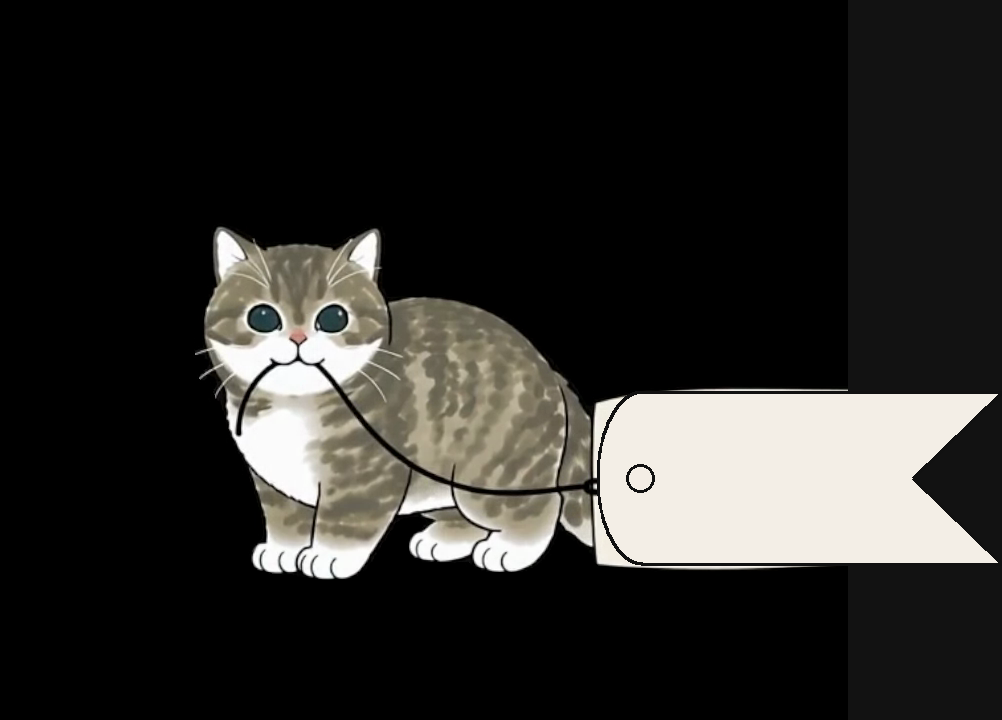
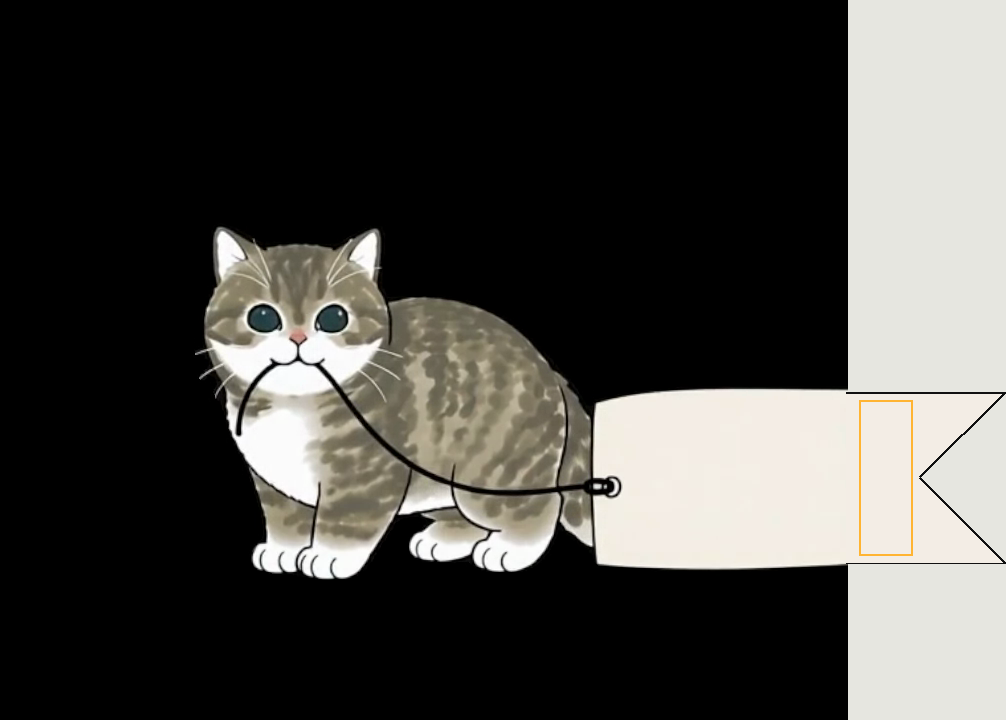
Walk the rating cat in from the right and pin stars on the full paper.
Replace the fade with a linear edge entrance timed to the clip, and overlay the complete swallowtail tag so the stars sit on the paper, not the cat.

diff --git a/frontend/app/assets/main.css b/frontend/app/assets/main.css
@@ -15290,17 +15290,19 @@ button.button {
   bottom: 4px;
   z-index: 6;
   /* кот ≈ 1.5× меньше прежних 360px; сцена шире ролика из‑за хвоста бумажки */
-  width: min(284px, 88vw);
+  width: min(286px, 88vw);
   display: flex;
   flex-direction: column;
   align-items: flex-end;
   gap: 6px;
   pointer-events: none;
-  animation: kb-rate-cat-in 0.45s ease-out;
+  /* выезд из-за правого края (клип страницы), без fade — ~длина ролика */
+  transform: translateX(100%);
+  animation: kb-rate-cat-in 5s linear forwards;
 }
 
 .kb-rate-cat.is-out {
-  animation: kb-rate-cat-out 0.4s ease-in forwards;
+  animation: kb-rate-cat-out 1.1s linear forwards;
 }
 
 .kb-rate-cat__ask {
@@ -15319,25 +15321,7 @@ button.button {
   position: relative;
   width: 100%;
   /* ролик 848×720 + вылет бумажки со swallowtail справа */
-  aspect-ratio: 1002 / 720;
-}
-
-.kb-rate-cat__banner {
-  position: absolute;
-  left: 59.681%;
-  top: 54.444%;
-  width: 40.319%;
-  height: 23.889%;
-  object-fit: fill;
-  opacity: 0;
-  pointer-events: none;
-  user-select: none;
-  z-index: 0;
-  transition: opacity 0.2s ease;
-}
-
-.kb-rate-cat__banner.is-live {
-  opacity: 1;
+  aspect-ratio: 1006 / 720;
 }
 
 .kb-rate-cat__video {
@@ -15345,7 +15329,7 @@ button.button {
   left: 0;
   top: 0;
   display: block;
-  width: 84.631%;
+  width: 84.294%;
   height: 100%;
   object-fit: fill;
   /* чёрный фон ролика → прозрачность на светлом холсте */
@@ -15355,28 +15339,45 @@ button.button {
   z-index: 1;
 }
 
-.kb-rate-cat__paper {
+.kb-rate-cat__banner {
   position: absolute;
-  /* зона звёзд на теле бумажки (левее V-хвоста) */
-  left: 67.737%;
+  left: 59.344%;
   top: 54.444%;
-  width: 22.383%;
+  width: 40.656%;
   height: 23.889%;
   z-index: 2;
+  opacity: 0;
+  pointer-events: none;
+  transition: opacity 0.2s ease;
+}
+
+.kb-rate-cat__banner.is-live {
+  opacity: 1;
+  pointer-events: auto;
+}
+
+.kb-rate-cat__banner-img {
+  display: block;
+  width: 100%;
+  height: 100%;
+  object-fit: fill;
+  pointer-events: none;
+  user-select: none;
+}
+
+.kb-rate-cat__paper {
+  position: absolute;
+  /* правее кота/люверса, левее V-хвоста — только открытое поле бумажки */
+  left: 40%;
+  right: 20%;
+  top: 16%;
+  bottom: 16%;
   display: flex;
   align-items: center;
   justify-content: space-between;
   gap: 0;
   padding: 0;
   box-sizing: border-box;
-  opacity: 0;
-  pointer-events: none;
-  transition: opacity 0.25s ease;
-}
-
-.kb-rate-cat__paper.is-live {
-  opacity: 1;
-  pointer-events: auto;
 }
 
 .kb-rate-cat__star {
@@ -15386,10 +15387,10 @@ button.button {
   border: 0;
   background: none;
   flex: 0 0 auto;
-  width: 18%;
+  width: 17%;
   height: auto;
   aspect-ratio: 1;
-  max-height: 78%;
+  max-height: 100%;
   cursor: pointer;
   line-height: 0;
 }
@@ -15401,7 +15402,7 @@ button.button {
 }
 
 .kb-rate-cat__star path {
-  fill: rgba(255, 184, 51, 0.22);
+  fill: rgba(255, 184, 51, 0.28);
   stroke: #111;
   stroke-width: 1.4;
   stroke-linejoin: round;
@@ -15418,8 +15419,8 @@ button.button {
 
 .kb-rate-cat__panel {
   position: absolute;
-  left: 59.681%;
-  width: 40.319%;
+  left: 59.344%;
+  width: 40.656%;
   top: 52%;
   z-index: 3;
   display: grid;
@@ -15479,19 +15480,19 @@ button.button {
 
 @keyframes kb-rate-cat-in {
   from {
-    opacity: 0;
-    transform: translate(28px, 36px);
+    transform: translateX(100%);
   }
   to {
-    opacity: 1;
-    transform: translate(0, 0);
+    transform: translateX(0);
   }
 }
 
 @keyframes kb-rate-cat-out {
+  from {
+    transform: translateX(0);
+  }
   to {
-    opacity: 0;
-    transform: translate(40px, 48px);
+    transform: translateX(110%);
   }
 }
 

diff --git a/frontend/app/pages/knowledge/index.vue b/frontend/app/pages/knowledge/index.vue
@@ -9,15 +9,6 @@
       <p v-if="rateReady && rateStep === 'stars'" class="kb-rate-cat__ask">Оцените удобство этой страницы</p>
 
       <div class="kb-rate-cat__stage">
-        <img
-          class="kb-rate-cat__banner"
-          :class="{ 'is-live': rateReady }"
-          src="/knowledge/rating-paper-full.png"
-          alt=""
-          width="424"
-          height="192"
-          draggable="false"
-        />
         <video
           ref="rateVideoRef"
           class="kb-rate-cat__video"
@@ -27,30 +18,41 @@
           preload="auto"
           @ended="onRateVideoEnded"
         />
-        <div
-          class="kb-rate-cat__paper"
-          :class="{ 'is-live': rateReady && rateStep === 'stars' }"
-          role="group"
-          aria-label="Оценка от 1 до 5"
-        >
-          <button
-            v-for="n in 5"
-            :key="n"
-            type="button"
-            class="kb-rate-cat__star"
-            :class="{ 'is-on': n <= (rateHover || rateStars) }"
-            :disabled="!rateReady || rateStep !== 'stars'"
-            :aria-label="`${n} из 5`"
-            @mouseenter="rateHover = n"
-            @mouseleave="rateHover = 0"
-            @click="pickStars(n)"
+        <!-- полная бумажка поверх ролика: swallowtail + звёзды на ней -->
+        <div class="kb-rate-cat__banner" :class="{ 'is-live': rateReady }" :aria-hidden="!rateReady">
+          <img
+            class="kb-rate-cat__banner-img"
+            src="/knowledge/rating-paper-full.png"
+            alt=""
+            width="409"
+            height="172"
+            draggable="false"
+          />
+          <div
+            v-show="rateStep === 'stars'"
+            class="kb-rate-cat__paper"
+            role="group"
+            aria-label="Оценка от 1 до 5"
           >
-            <svg viewBox="0 0 24 24" aria-hidden="true">
-              <path
-                d="M12 2.4l2.9 5.9 6.5.9-4.7 4.6 1.1 6.5L12 17.2 6.2 20.3l1.1-6.5L2.6 9.2l6.5-.9L12 2.4z"
-              />
-            </svg>
-          </button>
+            <button
+              v-for="n in 5"
+              :key="n"
+              type="button"
+              class="kb-rate-cat__star"
+              :class="{ 'is-on': n <= (rateHover || rateStars) }"
+              :disabled="!rateReady || rateStep !== 'stars'"
+              :aria-label="`${n} из 5`"
+              @mouseenter="rateHover = n"
+              @mouseleave="rateHover = 0"
+              @click="pickStars(n)"
+            >
+              <svg viewBox="0 0 24 24" aria-hidden="true">
+                <path
+                  d="M12 2.4l2.9 5.9 6.5.9-4.7 4.6 1.1 6.5L12 17.2 6.2 20.3l1.1-6.5L2.6 9.2l6.5-.9L12 2.4z"
+                />
+              </svg>
+            </button>
+          </div>
         </div>
 
         <div v-if="rateStep === 'thanks' || rateStep === 'comment'" class="kb-rate-cat__panel">

diff --git a/docs/CHANGELOG.md b/docs/CHANGELOG.md
@@ -4,6 +4,12 @@
 
 ## 2026-08-13
 
+### База знаний: кот выходит справа, бумажка целиком, звёзды на ней
+
+- Вход: выезд из-за правого края (~5 с, linear), без fade — в ритме перебора лап.
+- В конце ролика полная бумажка поверх кадра (`rating-paper-full.png`, swallowtail); звёзды внутри бумажки.
+- Кот ≈ в 1,5 раза меньше прежнего виджета.
+
 ### База знаний: кот меньше, бумажка целиком со swallowtail
 
 - Виджет оценки ≈ в 1,5 раза меньше.
